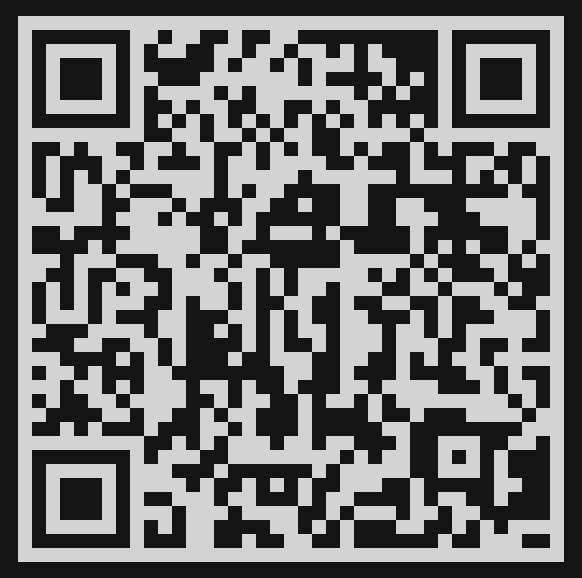
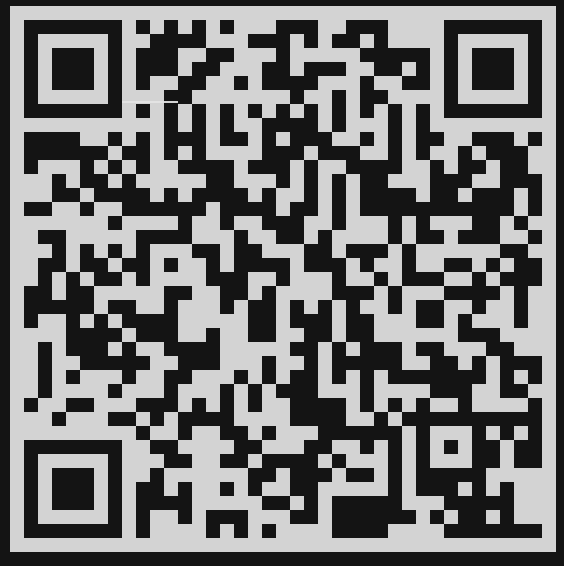
Update Android build link and QR image
Point README to the new Expo Android build (4db622e1-f88e-4fcf-b9e9-52cfff7852a0) and replace qr-download.png so the QR code matches the updated build.

diff --git a/Zim-Test-App/README.md b/Zim-Test-App/README.md
@@ -8,7 +8,7 @@ Dự án demo Story Carousel đa nền tảng sử dụng Expo (React Native), t
 
 Bạn có thể tải và trải nghiệm bản build Android tại đây:
 
-👉 https://expo.dev/accounts/handez/projects/Zim-Test-App/builds/c5ea5b74-708a-4da7-bd0d-92e21947b148
+👉 https://expo.dev/accounts/handez/projects/Zim-Test-App/builds/4db622e1-f88e-4fcf-b9e9-52cfff7852a0
 
 Hoặc quét mã QR bên dưới để tải nhanh:
 
